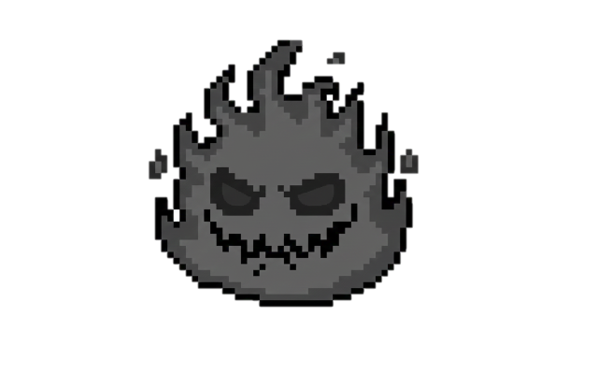
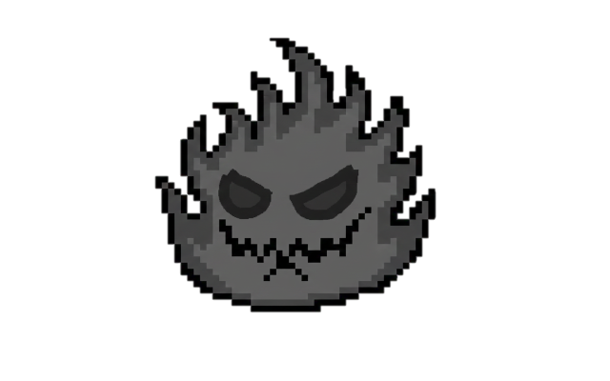
wooi

Changed region(s): [[0.2408, 0.0882, 0.7224, 0.8235], [0.4816, 0.5588, 0.5117, 0.5882]]

diff --git a/game.js b/game.js
@@ -32,11 +32,15 @@ const images = {
     volcano2: new Image(),
     volcano3: new Image(),
     caution: new Image(),
-    gameover: new Image(),
     hi: new Image(),
     button: new Image(),
     boo: new Image(),
     boo2: new Image(),
+    monster: new Image(), // MONSTER EVENT
+    monster2: new Image(), // MONSTER EVENT
+    lightning1: new Image(), // MONSTER EVENT
+    lightning2: new Image(), // MONSTER EVENT
+    lightning3: new Image(), // MONSTER EVENT
     numbers: []
 };
 
@@ -79,10 +83,15 @@ images.heart = new Image(); // HEALTH FEATURE
 images.heart.src = 'heart.png'; // HEALTH FEATURE
 images.heartEmpty = new Image(); // HEALTH FEATURE
 images.heartEmpty.src = 'heart2.png'; // HEALTH FEATURE
+images.monster.src = 'illusion.png'; // MONSTER EVENT
+images.monster2.src = 'illusion2.png'; // MONSTER EVENT
+images.lightning1.src = 'lightning1.png'; // MONSTER EVENT
+images.lightning2.src = 'lightning2.png'; // MONSTER EVENT
+images.lightning3.src = 'lightning3.png'; // MONSTER EVENT
 
 // 이미지 로드 완료 체크
 let imagesLoaded = 0;
-let totalImages = 38; // 34 + 4 (caution, volcano1, 2, 3)
+let totalImages = 43; // 38 + 5 (monster1, 2, lightning1, 2, 3)
 let allImagesLoaded = false;
 
 Object.values(images).forEach(img => {
@@ -131,6 +140,8 @@ let frameCount = 0;
 let isNightMode = false;
 let nightModeTransition = 1;
 let lastNightModeChange = 0;
+let lightningTimer = 0; // MONSTER EVENT: duration (frames)
+let lightningX = 0; // MONSTER EVENT: strike position
 
 // 공룡 클래스
 class Trex {
@@ -577,7 +588,67 @@ class Volcano {
 }
 // VOLCANO FEATURE
 
-// 구름 클래스
+// MONSTER EVENT
+class Monster {
+    constructor(x) {
+        this.type = 'MONSTER';
+        this.x = x;
+        this.remove = false;
+        this.animFrame = 0;
+        this.animDelay = 0;
+
+        // Initial dimensions (based on first image)
+        this.width = 60; // Standard size for monster
+        this.height = 60;
+        this.y = 145 - this.height; // ground alignment
+
+        // Fixed hitbox (similar to volcano or slightly more forgiving)
+        this.hitboxWidth = 40;
+        this.hitboxHeight = 40;
+    }
+
+    update() {
+        this.x -= currentSpeed;
+
+        // Animation
+        this.animDelay++;
+        if (this.animDelay > 10) {
+            this.animFrame = this.animFrame === 0 ? 1 : 0;
+            this.animDelay = 0;
+        }
+
+        if (this.x + this.width < 0) {
+            this.remove = true;
+        }
+    }
+
+    draw() {
+        if (!allImagesLoaded) return;
+        const img = this.animFrame === 0 ? images.monster : images.monster2;
+        ctx.drawImage(img, this.x, this.y, this.width, this.height);
+    }
+
+    collidesWith(trex) {
+        const trexBox = trex.getHitbox();
+        const bufferX = (this.width - this.hitboxWidth) / 2;
+        const bufferY = (this.height - this.hitboxHeight) / 2;
+
+        const obsBox = {
+            x: this.x + bufferX,
+            y: this.y + bufferY,
+            width: this.hitboxWidth,
+            height: this.hitboxHeight
+        };
+
+        return !(
+            trexBox.x + trexBox.width < obsBox.x ||
+            trexBox.x > obsBox.x + obsBox.width ||
+            trexBox.y + trexBox.height < obsBox.y ||
+            trexBox.y > obsBox.y + obsBox.height
+        );
+    }
+}
+// MONSTER EVENT
 class Cloud {
     constructor() {
         this.x = GAME_WIDTH + Math.random() * 100;
@@ -920,6 +991,17 @@ function update() {
     // 공룡 업데이트
     trex.update();
 
+    // [수정] 400점 이상 몬스터 이벤트 (번개 + 색반전 + 몬스터)
+    if (score >= 400 && Math.random() < 0.003 && lightningTimer === 0) { // Probability adjusted slightly
+        lightningTimer = 18; // 약 0.3초 (60fps 기준)
+        lightningX = GAME_WIDTH / 2 + Math.random() * (GAME_WIDTH / 2 - 100);
+        obstacles.push(new Monster(lightningX));
+    }
+
+    if (lightningTimer > 0) {
+        lightningTimer--;
+    }
+
     // 지평선 업데이트
     horizon.update();
 
@@ -1019,7 +1101,19 @@ function draw() {
     // 메테오 그리기 // METEOR FEATURE
     meteors.forEach(meteor => meteor.draw()); // METEOR FEATURE
 
-    // 지평선
+    // [수정] MONSTER EVENT: Lightning 및 색 반전 효과
+    if (lightningTimer > 0) {
+        ctx.save();
+        ctx.filter = 'invert(1)';
+
+        // 번개 이미지 애니메이션 (1, 2, 3 순환)
+        const lImg = [images.lightning1, images.lightning2, images.lightning3][Math.floor(frameCount / 3) % 3];
+        const lWidth = 40;
+        const lHeight = GAME_HEIGHT;
+        ctx.drawImage(lImg, lightningX + (60 - lWidth) / 2, 0, lWidth, lHeight);
+    }
+
+    // 모든 객체 그리기
     horizon.draw();
 
     // 장애물
@@ -1037,6 +1131,10 @@ function draw() {
     // 점수
     // 점수
     scoreBoard.draw();
+
+    if (lightningTimer > 0) {
+        ctx.restore();
+    }
 
     // HEALTH FEATURE: Draw hearts
     healthSystem.draw();
